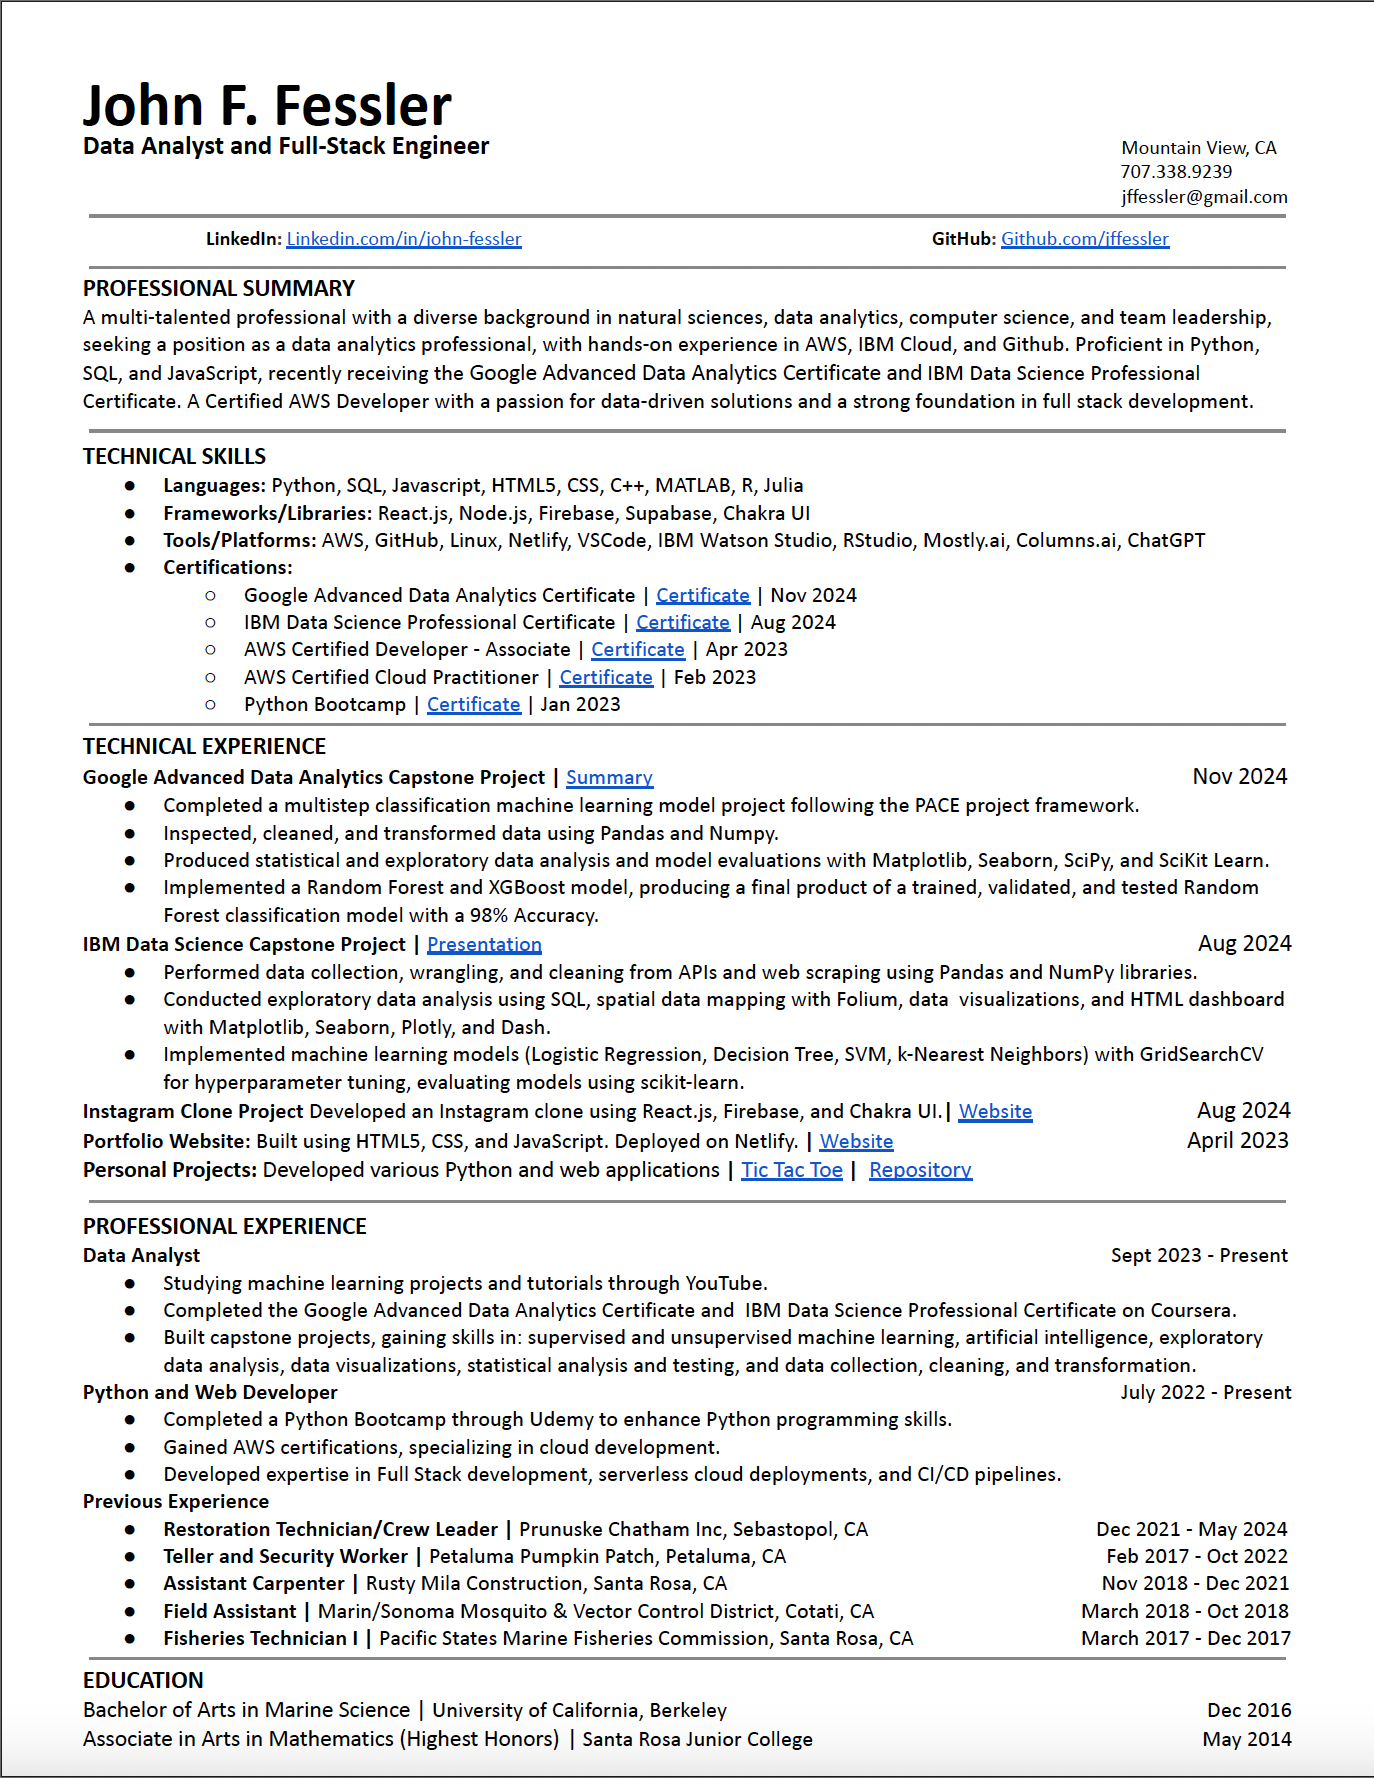
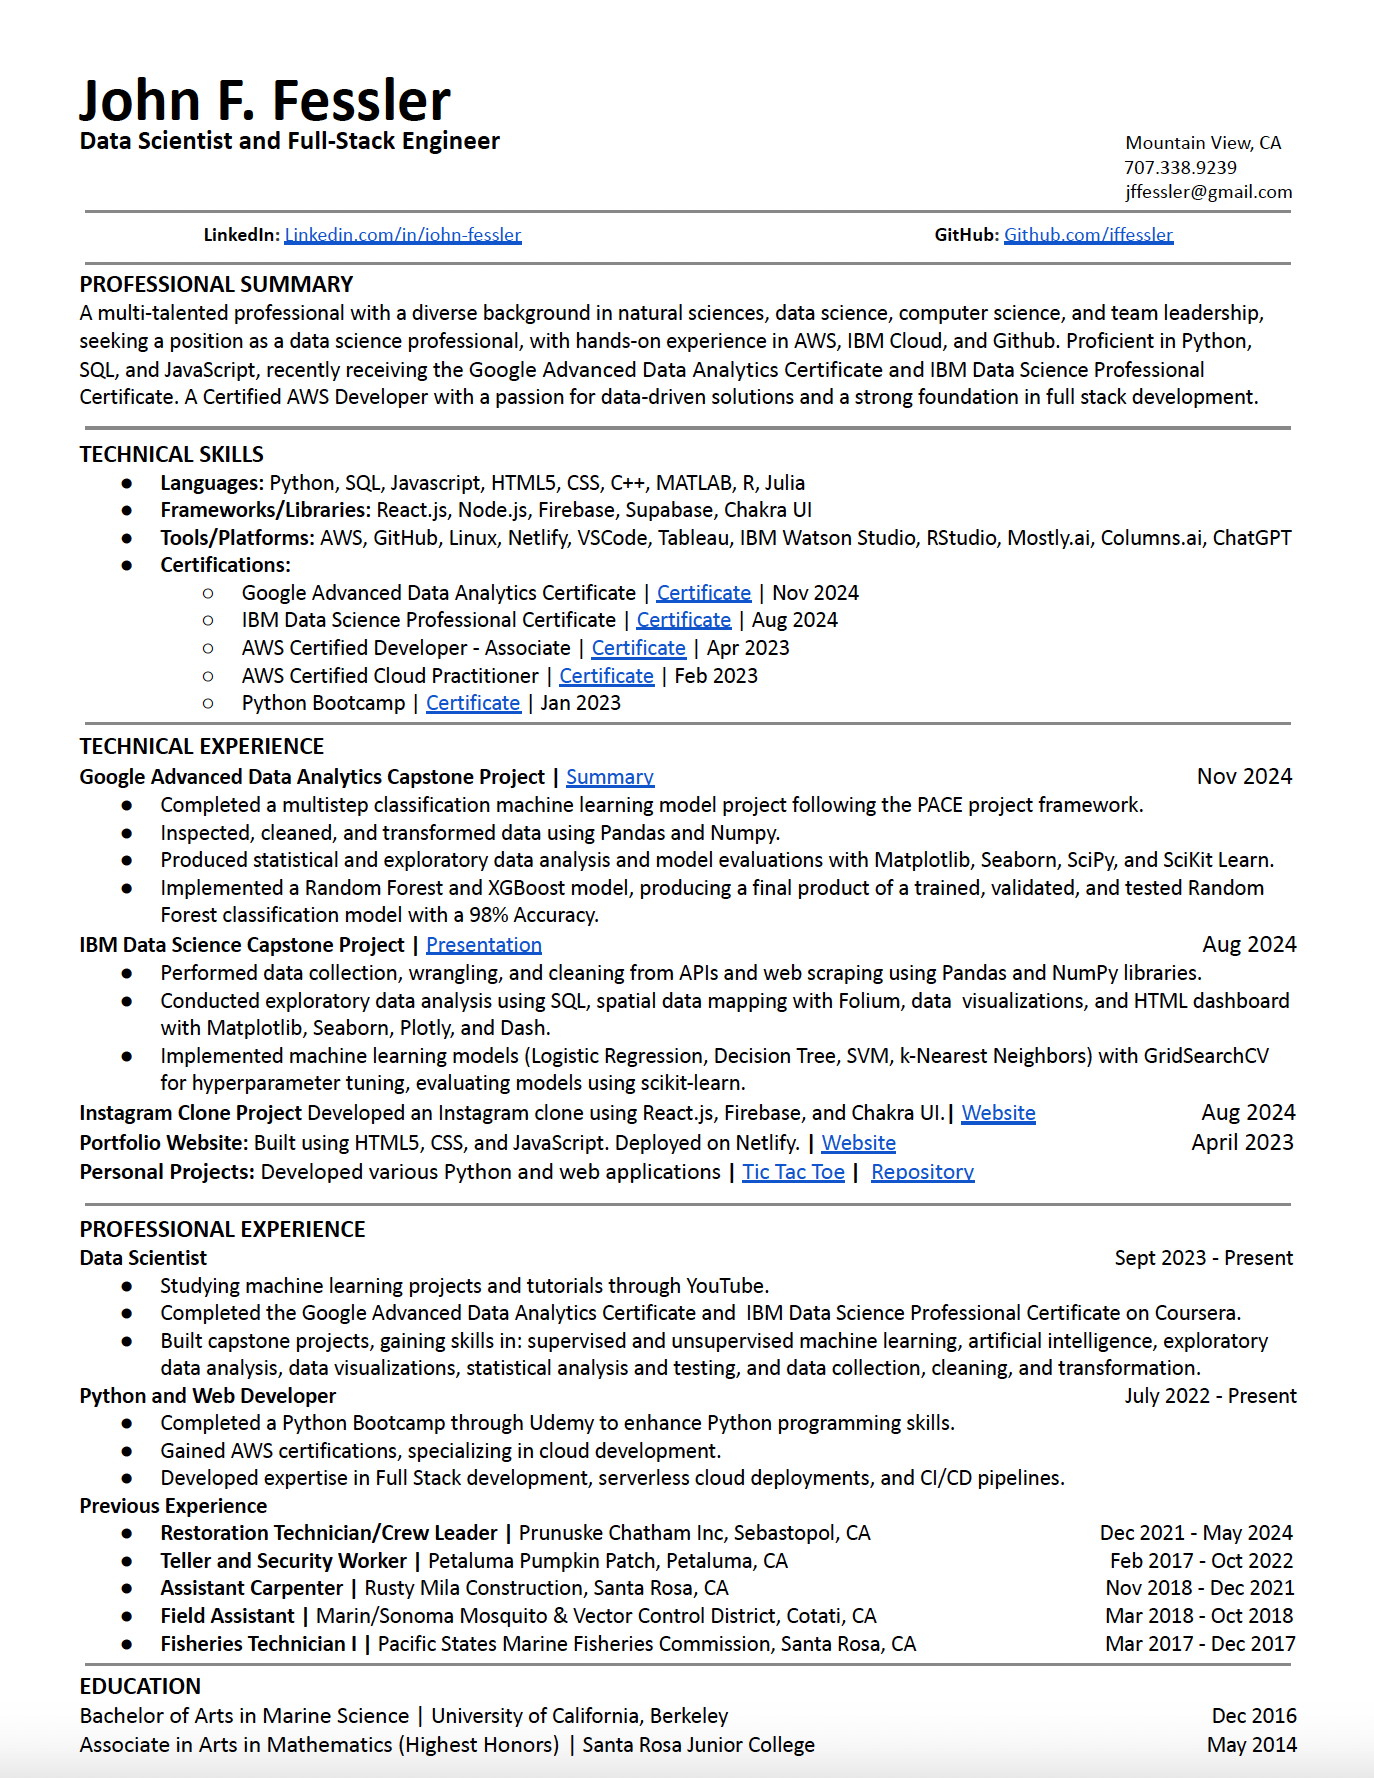
adding tiktok project to my portfolio and updating resume

Changed region(s): [[0.0, 0.0309, 1.0, 1.0]]

diff --git a/Portfolio.html b/Portfolio.html
@@ -67,6 +67,24 @@
                   risk employees.
                   <br /><i>November 2024</i>
                 </li>
+                <br />
+                <li>
+                  <h6>Google Advanced Data Analytics TikTok Project</h6>
+                  <a
+                    class="links"
+                    href="https://github.com/jffessler/TikTok_Final_Google_Adv_Data_Analytics/blob/c35000e35349d37ccdf412484bc68000aa45584c/Fessler%20Course%206_%20Executive%20summary.pdf"
+                    target="_blank"
+                    >Summary</a
+                  ><br />
+                  A multi-step TikTok submission claim analysis covering
+                  planning, data exploration, visualizations, statistical
+                  testing, and supervised and unsupervised linear, clustering,
+                  and ensemble machine learning modeling to predict the whether
+                  a submission is against the terms of service. This project
+                  covers a data science project timeline granularly.
+                  <br /><i>August-November 2024</i>
+                </li>
+                <br />
                 <li>
                   <h6>
                     IBM Data Science Professional Certificate Capstone Project

diff --git a/index.html b/index.html
@@ -53,7 +53,7 @@
 
         <div id="title">
           <h1><strong>John Fessler</strong></h1>
-          <h2><strong>Data Analyst and Full-Stack Engineer</strong></h2>
+          <h2><strong>Data Scientist and Full-Stack Engineer</strong></h2>
           <br />
         </div>
 
